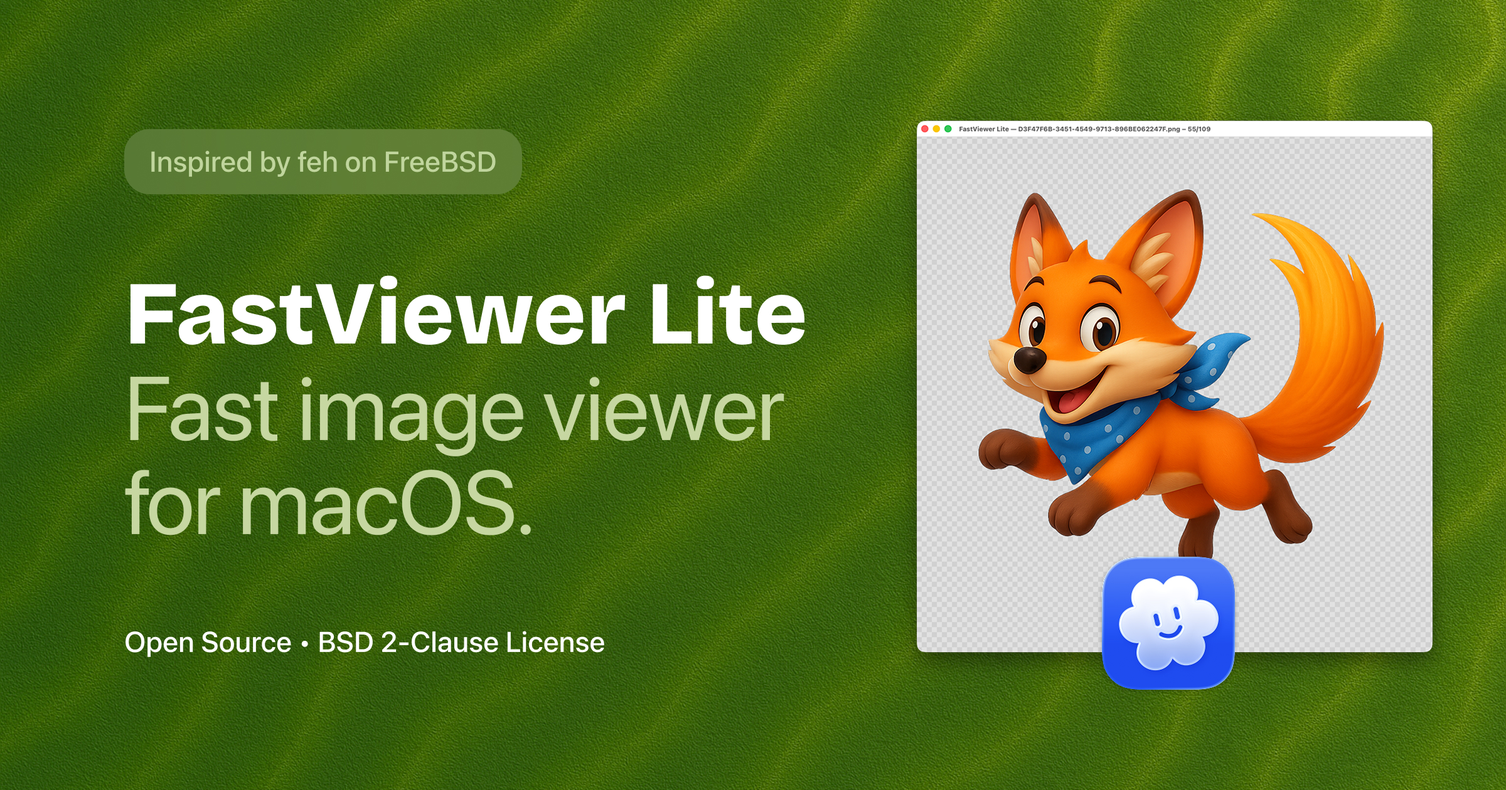
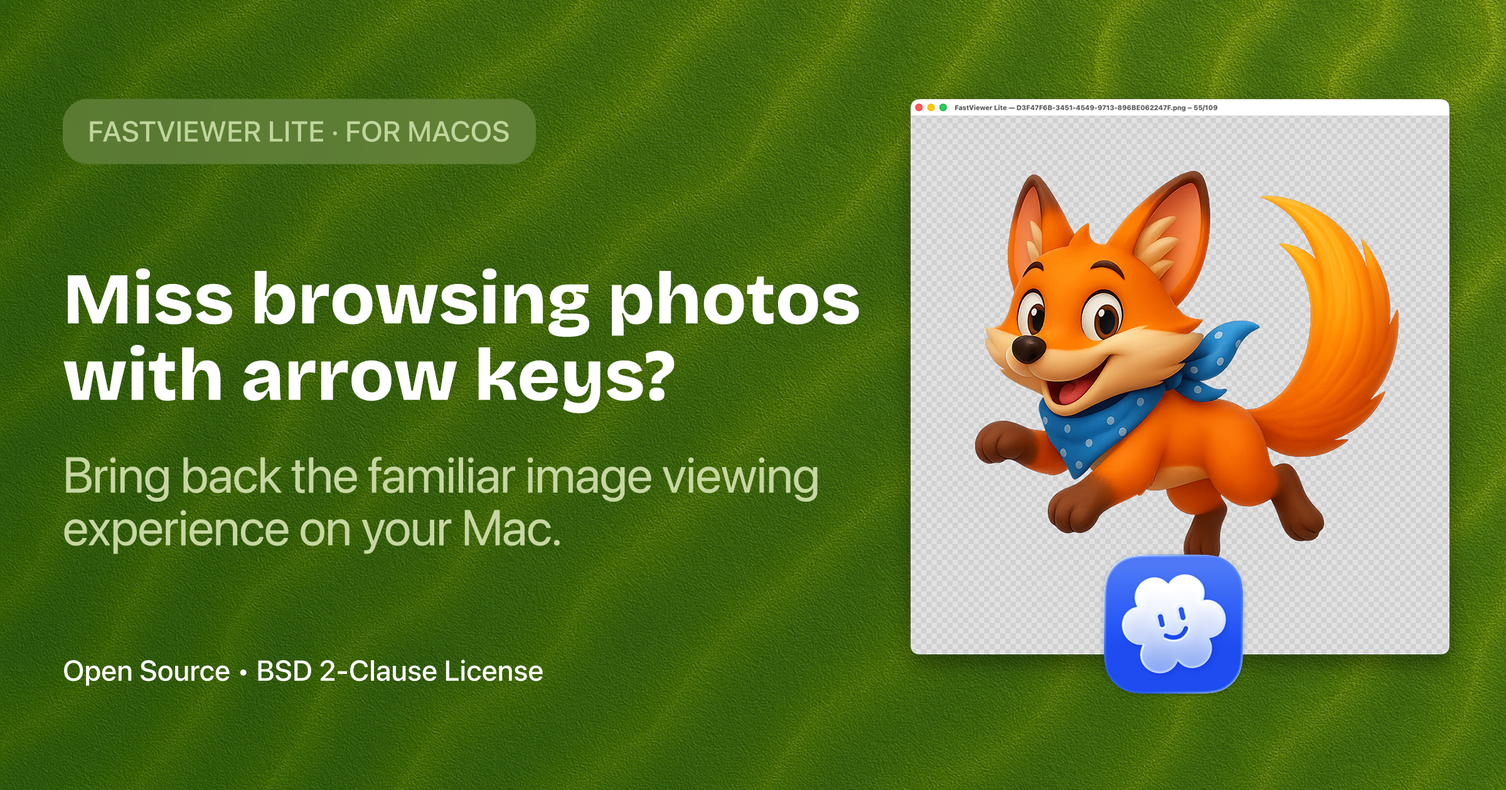
Updated metadata

Changed region(s): [[0.0312, 0.1238, 0.9688, 0.8976], [0.0312, 0.1238, 0.375, 0.2476], [0.0312, 0.8048, 0.4062, 0.8667]]

diff --git a/README.md b/README.md
@@ -3,17 +3,20 @@
 
 # FastViewer Lite
 
-FastViewer Lite is a lightweight native image viewer for macOS. It opens common image formats quickly and supports drag-and-drop, folder navigation, zooming and panning, image metadata, transparency previews, and common file actions.
+Browse images with the arrow keys.
 
-## Requirements
+If you’ve switched from Windows, Linux or FreeBSD, you may miss being able to open a photo and move through the rest of the folder. Preview on macOS can make that harder than it needs to be.
 
-- macOS 12.0 (Monterey) or later
-- Xcode with Swift 5 support
+FastViewer Lite lets you open an image and browse the folder with the left and right arrow keys. It’s a quick, simple viewer that keeps the focus on your images.
 
-## Build and test
+Open a picture and start browsing.
 
-Open `FastViewerLite.xcodeproj` in Xcode, select the **FastViewer Lite** scheme, and choose **Run**. The test suite is available through **Product > Test**.
+### Why FastViewer Lite?
 
-## License
-
-FastViewer Lite is released under the BSD 2-Clause License. See [LICENSE](LICENSE) for the full text.
+- Browse a folder with the arrow keys.
+- Move between images with ← and →. You don’t need to select multiple files in Finder first.
+- Quick to open, light on features you don’t need.
+- A minimal native macOS viewer for opening images quickly, without a full photo editor.
+- A native macOS app inspired by feh’s simplicity on FreeBSD.
+- Free and open source
+- Released under the BSD 2-Clause License.
